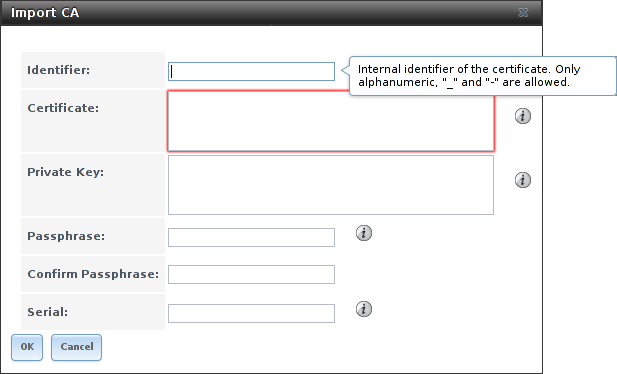
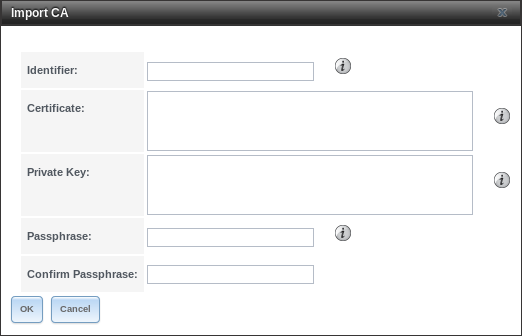
NAS-101771: Review system.rst CAs section Replace two obsolete images. Remove "Serial" entry for Import CA table: option not visible in FreeNAS/TrueNAS 11.2-U4

diff --git a/userguide/system.rst b/userguide/system.rst
@@ -2020,10 +2020,7 @@ The configurable options are summarized in
    |                |           |                                                                           |
    +----------------+-----------+---------------------------------------------------------------------------+
    | Passphrase     | string    | If the :guilabel:`Private Key` is protected by a passphrase,              |
-   |                |           | enter it here and repeat it in the "Confirm Passphrase" field.            |
-   |                |           |                                                                           |
-   +----------------+-----------+---------------------------------------------------------------------------+
-   | Serial         | string    | Enter the serial number for the certificate.                              |
+   |                |           | enter it here and repeat it in the :guilabel:`Confirm Passphrase` field.  |
    |                |           |                                                                           |
    +----------------+-----------+---------------------------------------------------------------------------+
 
@@ -2032,7 +2029,6 @@ To  create a new CA, first decide if it will be the only CA
 which will sign certificates for internal use or if the CA will be
 part of a
 `certificate chain <https://en.wikipedia.org/wiki/Root_certificate>`__.
-
 
 To create a CA for internal use only, click the
 :guilabel:`Create Internal CA` button which will open the screen shown
